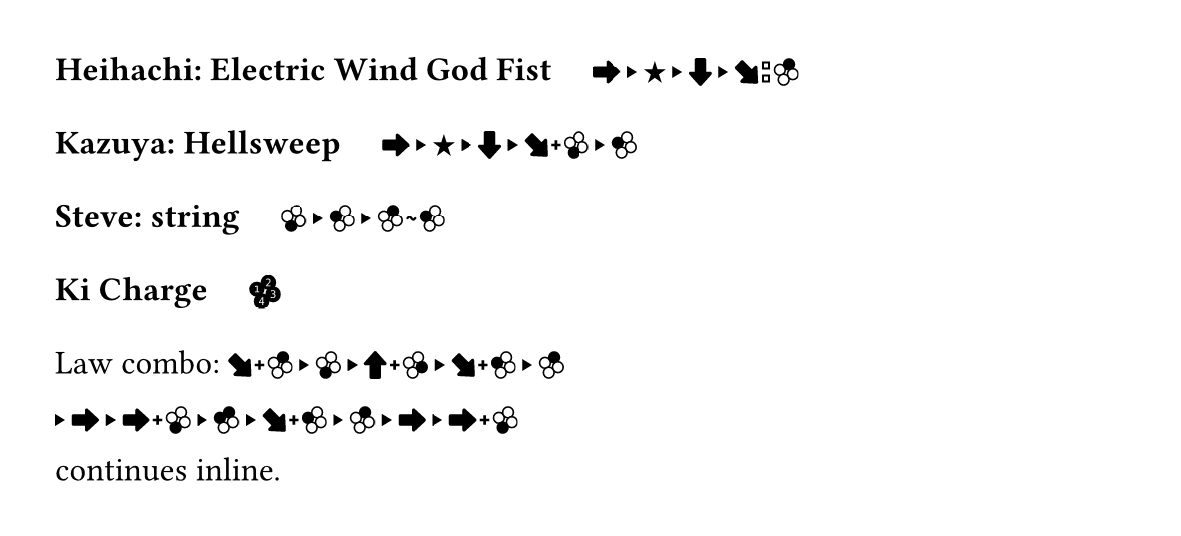
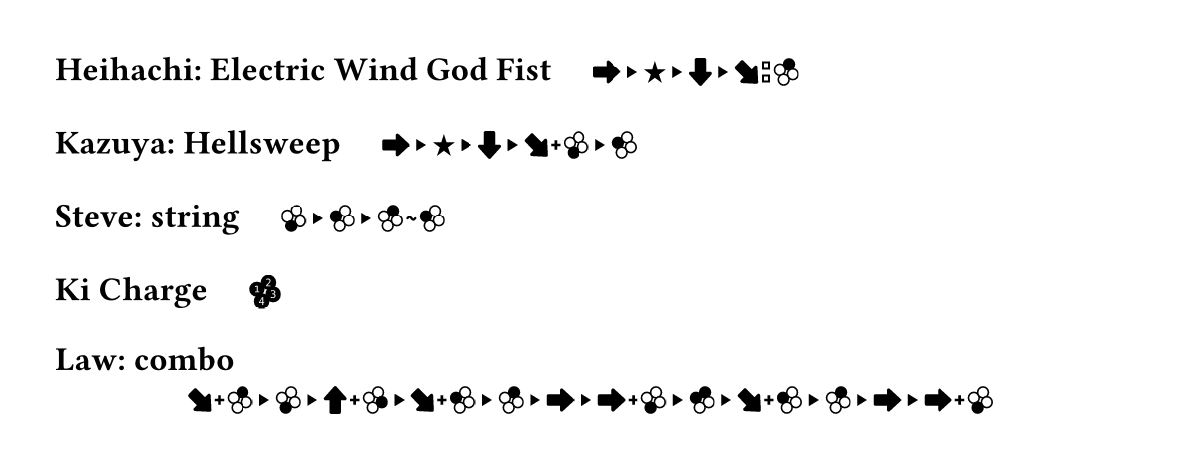
Center standalone notation diagrams

diff --git a/README.md b/README.md
@@ -20,9 +20,9 @@ Before publication, copy `lib.typ` into your project and import the local file. 
 
 *Ki Charge* #h(1em) #tekken("1+2+3+4", numbers: true)
 
-#block(width: 7cm)[
-  Law combo: #tekken("df+2, 4, u+3, df+1, 2, f, f+4, 1+2, df+1, 2, f, f+4") continues inline.
-]
+*Law: combo*
+
+#tekken("df+2, 4, u+3, df+1, 2, f, f+4, 1+2, df+1, 2, f, f+4", display: true)
 ```
 
 ![Rendered examples of Tekken move notation](docs/preview.png)
@@ -44,7 +44,7 @@ See the [full example PDF](example.pdf), including inline wrapping.
 | `1:2`, `f~3` | Timing symbols: two hollow squares and a tilde |
 | `"Side Step"` | A named state in a rounded rectangle |
 
-Buttons are arranged with `1` left, `2` upper, `3` right and `4` lower. Set `numbers: true` to label them. Set `display: true` to put notation on its own line. Long inline sequences can wrap between steps, with the separator at the start of the next line.
+Buttons are arranged with `1` left, `2` upper, `3` right and `4` lower. Set `numbers: true` to label them. Set `display: true` to center notation on its own line. Long inline sequences can wrap between steps, with the separator at the start of the next line.
 
 ## License
 
